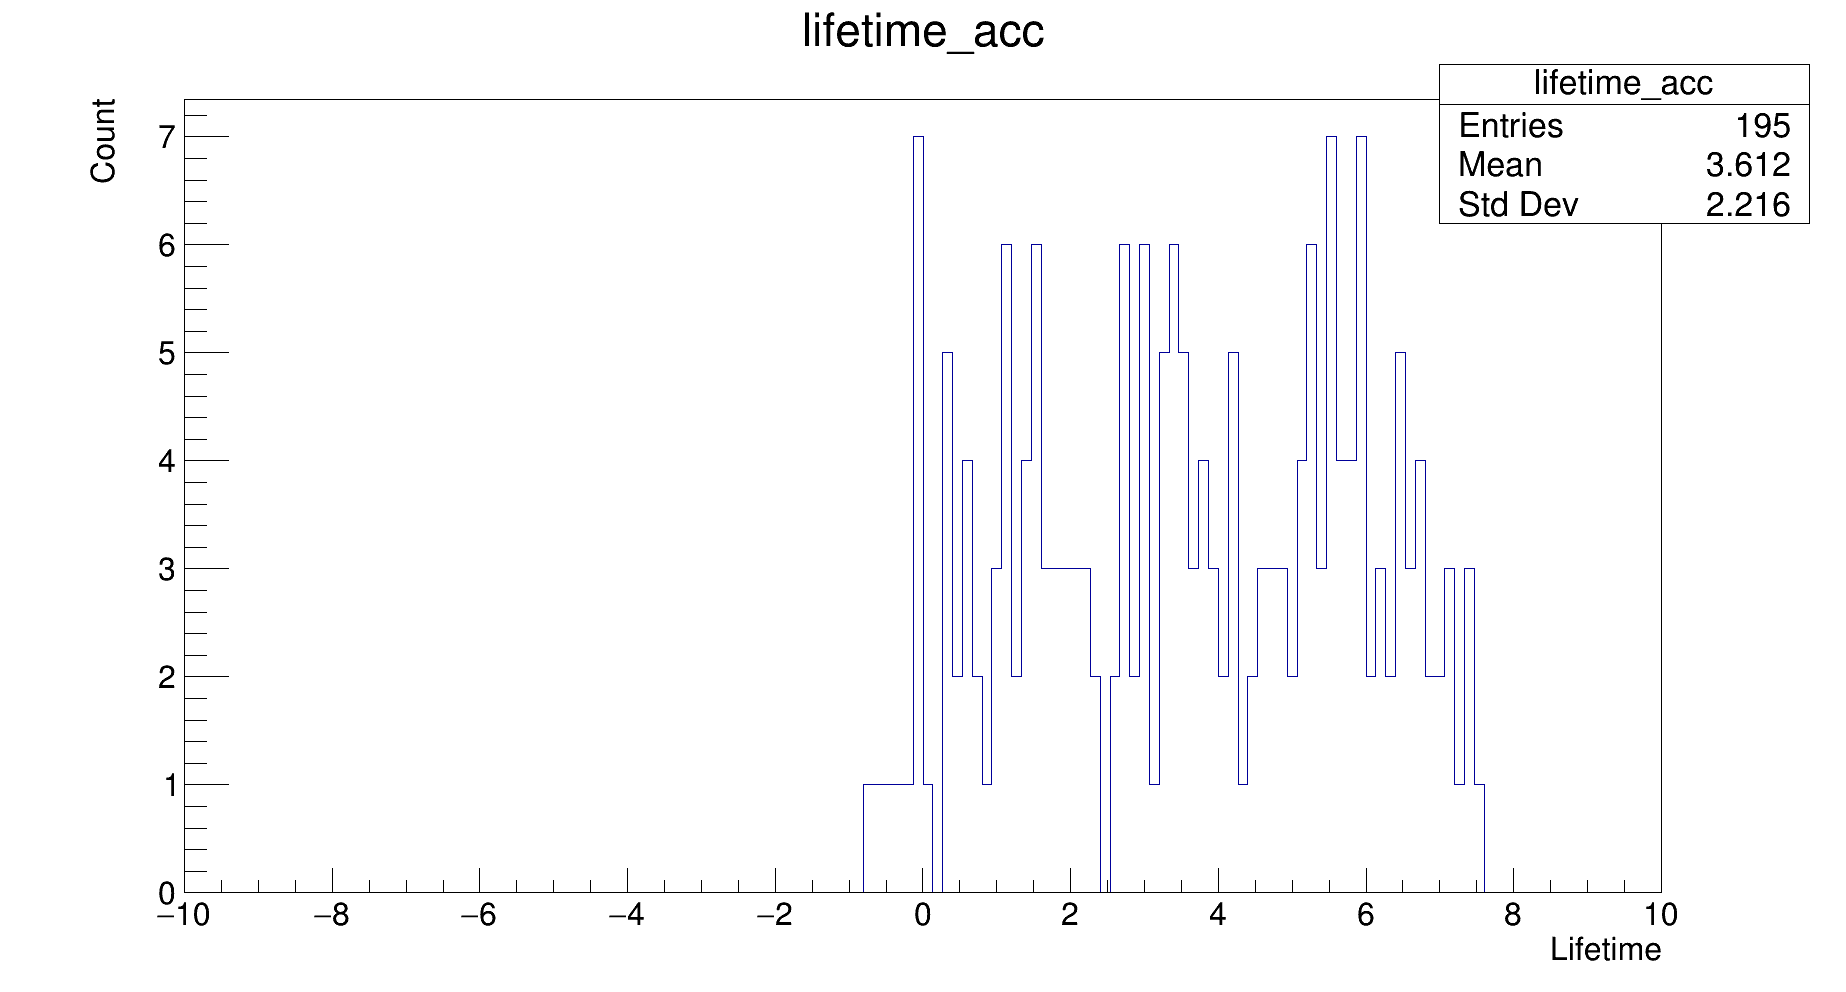
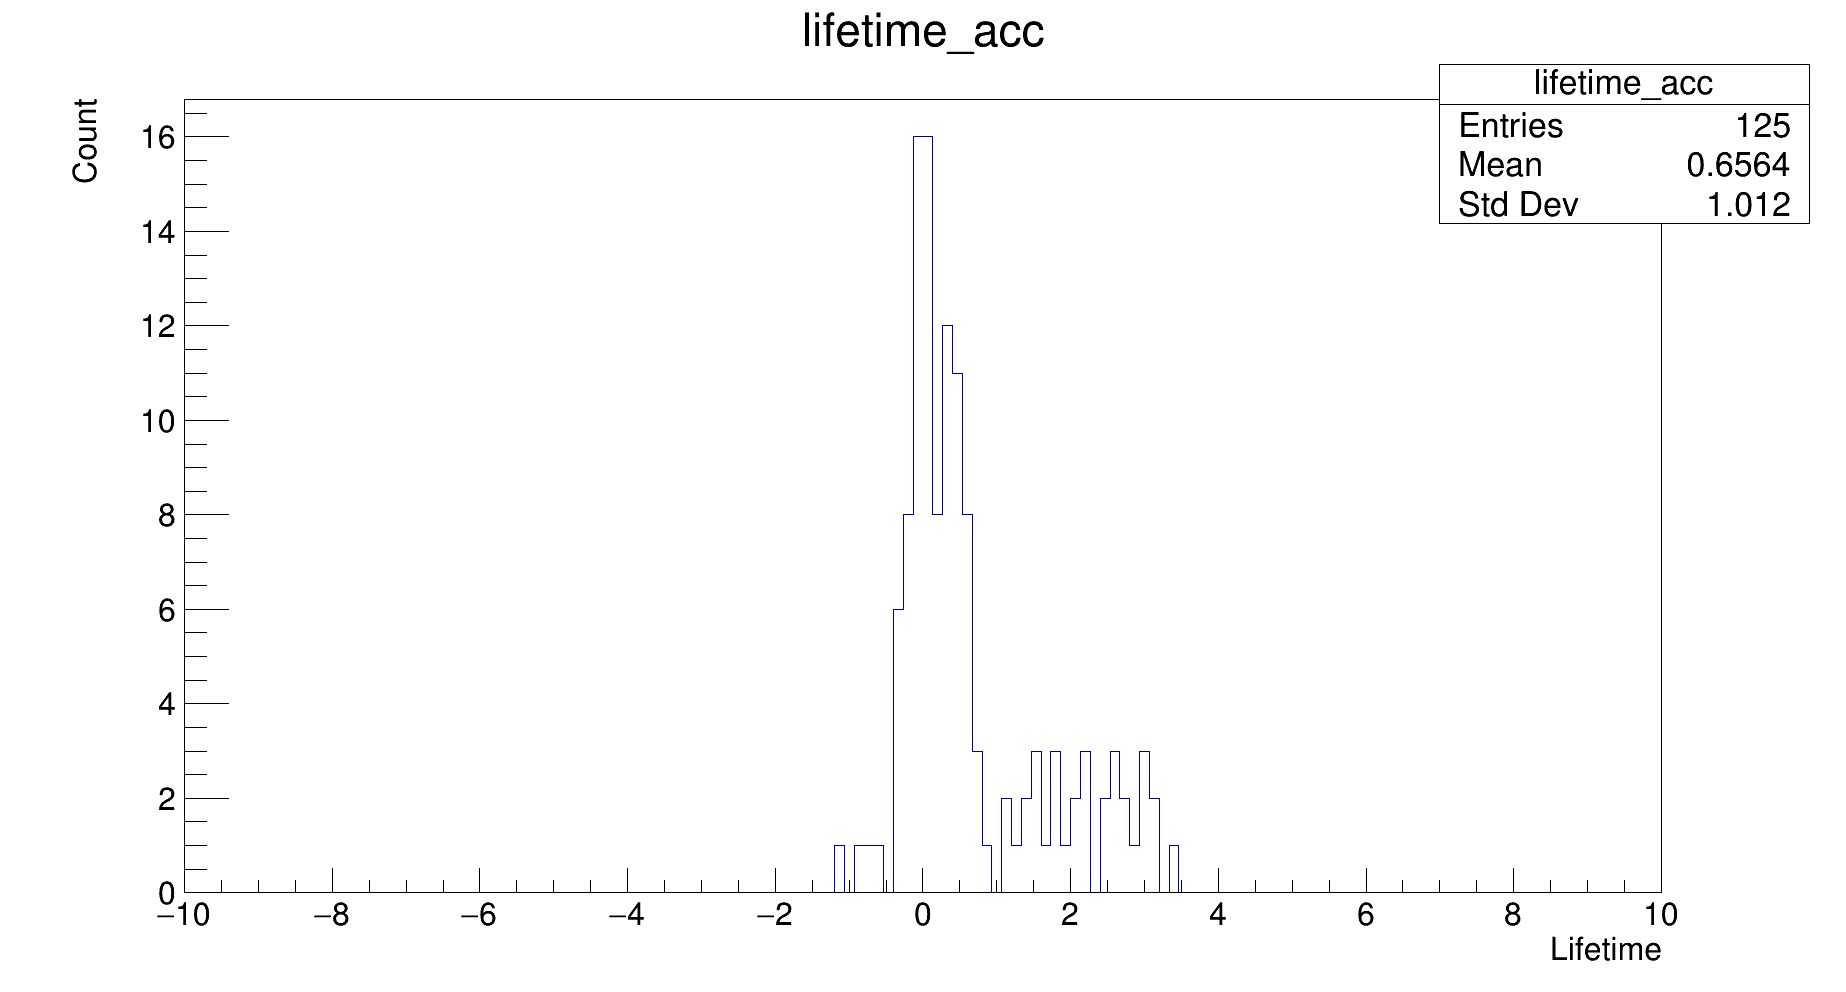
Made corrections to lifetime algorithm. Added histogram for x-y origin position. Created simple test for lifetime algorithm - results for both algoritms are similar.

diff --git a/DTW_algorithm/DTW.cpp b/DTW_algorithm/DTW.cpp
@@ -24,18 +24,44 @@ using namespace std;
 
 float get_origin_x(const vector<float>& x, const vector<float>& y, const  vector<float>& z, const vector<float>& time)
 {
-	float lenAB, origin[3] = {0.0, 0.0, 0.0};
+	float lenAB, origin = 0.0;
 
 	float c = 30;		//speed of light [cm/ns]
 	float timeRescale = 1/1000;
 	vector<float> vecAB, pDist, d1, d2;
-        //determine decay origin
-        vecAB = { (x[1] - x[2]), (y[1] - y[2]), (z[1] - z[2]) };
-        lenAB = TMath::Sqrt( vecAB[0]*vecAB[0] + vecAB[1]*vecAB[1] + vecAB[2]*vecAB[2]);
-        origin[0] = x[1] + (0.5 + c*timeRescale*(time[1]-time[2]) / (2*lenAB) ) * vecAB[0];
-        //origin[1] = y[1] + (0.5 + c*timeRescale*(time[1]-time[2]) / (2*lenAB) ) * vecAB[1];
-        //origin[2] = z[1] + (0.5 + c*timeRescale*(time[1]-time[2]) / (2*lenAB) ) * vecAB[2];
-        return origin[0];
+    //determine decay origin
+    vecAB = { (x[1] - x[2]), (y[1] - y[2]), (z[1] - z[2]) };
+    lenAB = TMath::Sqrt( vecAB[0]*vecAB[0] + vecAB[1]*vecAB[1] + vecAB[2]*vecAB[2]);
+    origin = x[2] + (0.5 + c*timeRescale*(time[1]-time[2]) / (2*lenAB) ) * vecAB[0];
+    return origin;
+}
+
+float get_origin_y(const vector<float>& x, const vector<float>& y, const  vector<float>& z, const vector<float>& time)
+{
+	float lenAB, origin = 0.0;
+
+	float c = 30;		//speed of light [cm/ns]
+	float timeRescale = 1/1000;
+	vector<float> vecAB, pDist, d1, d2;
+    //determine decay origin
+    vecAB = { (x[1] - x[2]), (y[1] - y[2]), (z[1] - z[2]) };
+    lenAB = TMath::Sqrt( vecAB[0]*vecAB[0] + vecAB[1]*vecAB[1] + vecAB[2]*vecAB[2]);
+    origin = y[2] + (0.5 + c*timeRescale*(time[1]-time[2]) / (2*lenAB) ) * vecAB[1];
+    return origin;
+}
+
+float get_origin_z(const vector<float>& x, const vector<float>& y, const  vector<float>& z, const vector<float>& time)
+{
+	float lenAB, origin = 0.0;
+
+	float c = 30;		//speed of light [cm/ns]
+	float timeRescale = 1/1000;
+	vector<float> vecAB, pDist, d1, d2;
+    //determine decay origin
+    vecAB = { (x[1] - x[2]), (y[1] - y[2]), (z[1] - z[2]) };
+    lenAB = TMath::Sqrt( vecAB[0]*vecAB[0] + vecAB[1]*vecAB[1] + vecAB[2]*vecAB[2]);
+    origin = z[2] + (0.5 + c*timeRescale*(time[1]-time[2]) / (2*lenAB) ) * vecAB[2];
+    return origin;
 }
 
 
@@ -64,13 +90,21 @@ void DTW(){
 	inFile.close();
 	
 	//3-hit Pickoff events, no scatters, has prompt
-	auto df_fltr = df.Filter("numberOfHits == 3 && isPickOff && !isScattered && containsPrompt");
-        auto df_vertex = df_fltr.Define("origin_x", get_origin_x, {"x", "y", "z", "time"});
+	auto df_fltr = df.Filter("numberOfHits == 3 && !isPickOff && !isScattered && containsPrompt");
 	
 	//Split between true events and randoms
 	auto df_true = df_fltr.Filter("!isAcc");
 	auto df_acc = df_fltr.Filter("isAcc");
 	
+	//Histo of origin points
+	auto df_vertex = df_true.Define("origin_x", get_origin_x, {"x", "y", "z", "time"}).Define("origin_y", get_origin_y, {"x", "y", "z", "time"}).Define(
+						"origin_z", get_origin_z, {"x", "y", "z", "time"});
+	std::unique_ptr<TCanvas> origin(new TCanvas("origin", "origin", 1920, 1080));
+	auto hist_orig = df_vertex.Histo2D({"Origin", "Origin", 300, -60, 60, 300, -60, 60}, "origin_x", "origin_y");
+	hist_orig->GetXaxis()->SetTitle("Pos X");
+	hist_orig->GetYaxis()->SetTitle("Pos Y");
+	hist_orig->Draw();
+	origin->SaveAs("x-y.png");
 	
 	//Calculate and plot lifetimes
 	auto lf_True = calc_lifetime(df_true);

diff --git a/DTW_algorithm/calc_lifetime.h b/DTW_algorithm/calc_lifetime.h
@@ -1,4 +1,7 @@
 /// guards
+#ifndef CALC_LIFETIME
+#define CALC_LIFETIME
+
 #include <iostream>
 #include <vector>
 #include <TROOT.h>
@@ -11,7 +14,7 @@
 #endif
 
 //TAK NIE ROBIMY! -> namespace pollution
-using namespace std;
+//using namespace std;
 
 vector<float> calc_lifetime(ROOT::RDF::RInterface<ROOT::Detail::RDF::RJittedFilter, void> df){
 	float timeRescale = 1/1000;	//rescale time unit to nanoseconds
@@ -53,10 +56,10 @@ vector<float> calc_lifetime(ROOT::RDF::RInterface<ROOT::Detail::RDF::RJittedFilt
 		vecAB = { (x_Vec[i][iMap[1]] - x_Vec[i][iMap[2]]), (y_Vec[i][iMap[1]] - y_Vec[i][iMap[2]]), (z_Vec[i][iMap[1]] - z_Vec[i][iMap[2]]) };
 		lenAB = TMath::Sqrt( vecAB[0]*vecAB[0] + vecAB[1]*vecAB[1] + vecAB[2]*vecAB[2]);
 		
-		origin[0] = x_Vec[i][iMap[1]] + (0.5 + c*timeRescale*(time_Vec[i][iMap[1]]-time_Vec[i][iMap[2]]) / (2*lenAB) ) * vecAB[0];
-		origin[1] = y_Vec[i][iMap[1]] + (0.5 + c*timeRescale*(time_Vec[i][iMap[1]]-time_Vec[i][iMap[2]]) / (2*lenAB) ) * vecAB[1];
-		origin[2] = z_Vec[i][iMap[1]] + (0.5 + c*timeRescale*(time_Vec[i][iMap[1]]-time_Vec[i][iMap[2]]) / (2*lenAB) ) * vecAB[2];
-		std::cout << origin[0] << "	" << origin[1] << "	" << origin[2] << std::endl;
+		origin[0] = x_Vec[i][iMap[2]] + (0.5 + c*timeRescale*(time_Vec[i][iMap[1]]-time_Vec[i][iMap[2]]) / (2*lenAB) ) * vecAB[0];
+		origin[1] = y_Vec[i][iMap[2]] + (0.5 + c*timeRescale*(time_Vec[i][iMap[1]]-time_Vec[i][iMap[2]]) / (2*lenAB) ) * vecAB[1];
+		origin[2] = z_Vec[i][iMap[2]] + (0.5 + c*timeRescale*(time_Vec[i][iMap[1]]-time_Vec[i][iMap[2]]) / (2*lenAB) ) * vecAB[2];
+		//std::cout << origin[0] << "	" << origin[1] << "	" << origin[2] << std::endl;
 	
 		//calculate "machine time" T
 		pDist = { x_Vec[i][iMap[0]] - origin[0], y_Vec[i][iMap[0]] - origin[1], z_Vec[i][iMap[0]] - origin[2] };
@@ -71,8 +74,11 @@ vector<float> calc_lifetime(ROOT::RDF::RInterface<ROOT::Detail::RDF::RJittedFilt
 		tFl2 = TMath::Sqrt( pDist[0]*pDist[0] + pDist[1]*pDist[1] + pDist[2]*pDist[2]) / c;
 		tEm2 = timeRescale*time_Vec[i][iMap[2]] - tFl2 - refTime;
 		
-		lifetimes.push_back( (tEm1 + tEm2)/2 - (timeRescale*time_Vec[i][iMap[0]])-refTime);
+		lifetimes.push_back( (tEm1 + tEm2)/2);
 	}
 	
 	return lifetimes;
 }
+
+
+#endif

diff --git a/DTW_algorithm/Origin_test.cpp b/DTW_algorithm/Origin_test.cpp
@@ -1,0 +1,51 @@
+#include <iostream>
+#include <vector>
+#include <cmath>
+
+
+using namespace std;
+
+vector<float> calculateAnnihilationPoint(const vector<float>& hitA, const vector<float>& hitB, float tof)
+{
+  const float kLightVelocity_cm_ps = 0.0299792458;
+  vector<float> middleOfLOR = {0.5 *(hitB[0] + hitA[0]),0.5 *( hitB[1] + hitA[1]),0.5 *( hitB[2] + hitA[2])};
+  float len = sqrt((hitB[0] - hitA[0])*(hitB[0] - hitA[0]) + (hitB[1] - hitA[1])*(hitB[1] - hitA[1]) + (hitB[2] - hitA[2])*(hitB[2] - hitA[2]));
+  vector<float> versorOnLOR = {(hitB[0] - hitA[0])/len, (hitB[1] - hitA[1])/len, (hitB[2] - hitA[2])/len};
+
+  float shift = 0.5 * tof  * kLightVelocity_cm_ps;
+  vector<float> annihilationPoint = {middleOfLOR[0] + shift * versorOnLOR[0],
+                             middleOfLOR[1] + shift * versorOnLOR[1],
+                             middleOfLOR[2] + shift * versorOnLOR[2]};
+  return annihilationPoint;
+}
+
+vector<float> get_origin_x(const vector<float>& hitA, const vector<float>& hitB, const vector<float>& time)
+{
+	float lenAB;
+
+	float c = 30;		//speed of light [cm/ns]
+	float timeRescale = 1/1000;
+	vector<float> vecAB, origin = {0.0, 0.0, 0.0};
+	
+        //determine decay origin
+        vecAB = { (hitA[0] - hitB[0]), (hitA[1] - hitB[1]), (hitA[2] - hitB[2]) };
+        lenAB = sqrt( vecAB[0]*vecAB[0] + vecAB[1]*vecAB[1] + vecAB[2]*vecAB[2]);
+        origin[0] = hitB[0] + (0.5 + c*timeRescale*(time[1]-time[2]) / (2*lenAB) ) * vecAB[0];
+        origin[1] = hitB[1] + (0.5 + c*timeRescale*(time[1]-time[2]) / (2*lenAB) ) * vecAB[1];
+        origin[2] = hitB[2] + (0.5 + c*timeRescale*(time[1]-time[2]) / (2*lenAB) ) * vecAB[2];
+   return origin;
+}
+
+int main(){
+	vector<float> hitA = {-27.10531, -50.71047, -13.61408};
+	vector<float> hitB = {30.363901, -48.82912, 8.6609554};
+	vector<float> time = {-30558104, -30557534, -30557468};
+	
+	vector<float> p1 = calculateAnnihilationPoint(hitA, hitB, (time[1]-time[2])/2.0);
+	vector<float> p2 = get_origin_x(hitA, hitB, time);
+	
+	std::cout << p1[0] << " " << p1[1] << " " << p1[2] << std::endl;
+	std::cout << p2[0] << " " << p2[1] << " " << p2[2] << std::endl;
+	
+	return 0;
+}
